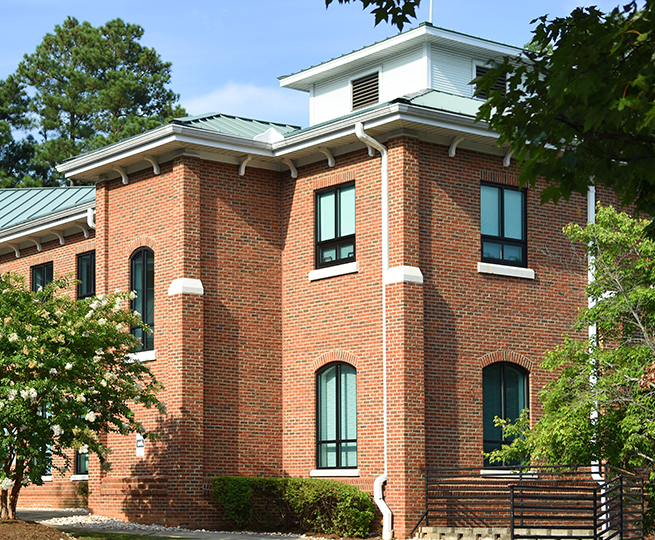
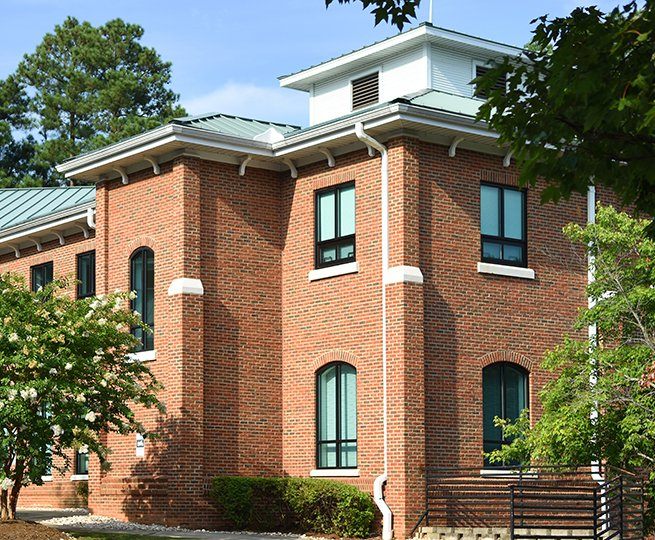
Image Optimization

diff --git a/public/index.html b/public/index.html
@@ -114,7 +114,11 @@
 	<div class="container">
 		<div class="row align-items-center flex-md-row-reverse">
 			<div class="col-md-6">
-				<img src="/i/home-banner-1.png" alt="Helping Patients at Carrboro Family Medicine Center" class="w-100" data-aos="fade-down" data-aos-delay="0">			
+				<picture>
+				  <source srcset="/i/home-banner-1.webp" type="image/webp">
+				  <source srcset="/i/home-banner-1.png" type="image/png"> 
+				  <img src="/i/home-banner-1.png" alt="Helping Patients at Carrboro Family Medicine Center" class="w-100" data-aos="fade-down" data-aos-delay="0">
+				</picture>
 			</div>
 			<div class="col-md-6 mt-8 mt-md-0">
 				<h1 class="display-3 mb-6 text-light-1" data-aos="fade-down" data-aos-delay="150">We are Here for You.</h1>
@@ -150,22 +154,38 @@
 		</div>
 		<div class="row justify-content-center">
 			<div class="mb-15 mb-md-0 col-xxl-3 col-md-3 col-sm-6" data-aos="fade-down" data-aos-delay="0">
-				<img src="/i/mainpage2.jpeg" alt="Comprehensive Primary Care Services" class="img-fluid mb-6">
+				<picture>
+				  <source srcset="/i/mainpage2.webp" type="image/webp">
+				  <source srcset="/i/mainpage2.jpeg" type="image/jpeg"> 
+				  <img src="/i/mainpage2.jpeg" alt="Comprehensive Primary Care Services" class="img-fluid mb-6">
+				</picture>
 				<h5 class="mb-4">Comprehensive Primary Care Services</h5>
 				<p class="mb-0">Our family medicine practice provides care for infants, children and adolescents, adults and senior citizens</p>
 			</div>
-			<div class="mb-15 mb-md-0 col-sm-8 col-xxl-3 col-md-3" data-aos="fade-down" data-aos-delay="250">
-				<img src="/i/dr-manor.jpeg" alt="Board Certified, Well-Trained Physicians" class="img-fluid mb-6">
+			<div class="mb-15 mb-md-0 col-sm-6 col-xxl-3 col-md-3" data-aos="fade-down" data-aos-delay="250">
+				<picture>
+				  <source srcset="/i/dr-manor.webp" type="image/webp">
+				  <source srcset="/i/dr-manor.jpeg" type="image/jpeg"> 
+				  <img src="/i/dr-manor.jpeg" alt="Board Certified, Well-Trained Physicians" class="img-fluid mb-6">
+				</picture>
 				<h5 class="mb-4">Board Certified, Well-Trained Physicians</h5>
 				<p class="mb-0">We are growing to provide greater access to care and welcome new patients to our practice.</p>
 			</div>
-			<div class="col-sm-8 col-xxl-3 col-md-3" data-aos="fade-down" data-aos-delay="500">
-				<img src="/i/main2.jpeg" alt="Same Day Appointments" class="img-fluid mb-6">
+			<div class="col-sm-6 col-xxl-3 col-md-3" data-aos="fade-down" data-aos-delay="500">
+				<picture>
+				  <source srcset="/i/main2.webp" type="image/webp">
+				  <source srcset="/i/main2.jpeg" type="image/jpeg"> 
+				  <img src="/i/main2.jpeg" alt="Same Day Appointments" class="img-fluid mb-6">
+				</picture>
 				<h5 class="mb-4">Same Day Appointments</h5>
 				<p class="mb-0">If you would like a same-day appointment, please call us at 919-929-1747 (Press option 1 or option 2) before 4 pm.</p>
 			</div>
-			<div class="col-sm-8 col-xxl-3 col-md-3" data-aos="fade-down" data-aos-delay="500">
-				<img src="/i/willowcreek-655x540.jpeg" alt="On-Site Lab" class="img-fluid mb-6">
+			<div class="col-sm-6 col-xxl-3 col-md-3" data-aos="fade-down" data-aos-delay="500">
+				<picture>
+				  <source srcset="/i/willowcreek-655x540.webp" type="image/webp">
+				  <source srcset="/i/willowcreek-655x540.jpeg" type="image/jpeg"> 
+				  <img src="/i/willowcreek-655x540.jpeg" alt="On-Site Lab" class="img-fluid mb-6">
+				</picture>
 				<h5 class="mb-4">On-Site Lab</h5>
 				<p class="mb-0">Carrboro Family Medicine Center is a well-established, independent practice with a lab, and other diagnostic amenities.</p>
 			</div>
@@ -257,12 +277,8 @@
 	<div class="container">
 		<div class="row align-items-md-center justify-content-between">
 			<div class="mb-8 mb-md-0 col-md-7 col-lg-6 col-xl-5 col-xxl-4">
-				<h2 class="display-5 mb-6 text-center text-md-start" data-aos="fade-down" data-aos-delay="250">
-						Our Facilities
-				</h2>
-				<p class="fs-2 text-center text-md-start mb-0" data-aos="fade-down" data-aos-delay="500">
-						Since we opened our doors in 1982, we have treated our patients with the same values we would wish for members of our own families:  Compassion.  Respect.  Integrity.  Trust.  Lifelong Learning.  Teamwork.
-				</p>
+				<h2 class="display-5 mb-6 text-center text-md-start" data-aos="fade-down" data-aos-delay="250">Our Facilities</h2>
+				<p class="fs-2 text-center text-md-start mb-0" data-aos="fade-down" data-aos-delay="500">Since we opened our doors in 1982, we have treated our patients with the same values we would wish for members of our own families: Compassion. Respect. Integrity. Trust. Lifelong Learning. Teamwork.</p>
 			</div>
 			<div class="col-md-5 col-xl-6">
 				<video style="width:100%; border:1px solid #ededed; aspect-ratio: 16 / 9;" poster="/i/Video-Logo.jpeg" controls="controls" width="100%"><source src="/i/intro-video.mp4" type="video/mp4"></video>
@@ -390,7 +406,7 @@
 	</div>
 </section>
 
-<section class="bg-bg-2 pt-md-16">
+<section class="bg-bg-2 pt-16">
 	<div class="container">
 		<div class="row justify-content-center text-center text-md-start">
 			<div class="mb-10 mb-md-15 mb-lg-20 col-sm-8 col-md-6 col-lg-4 d-flex flex-column" data-aos="fade-down" data-aos-delay="0">

diff --git a/public/about-us/index.html b/public/about-us/index.html
@@ -119,7 +119,11 @@
 				<p class="mb-8 fs-1 text-light-2" data-aos="fade-down" data-aos-delay="250">Carrboro Family Medicine Center is a well-established, independent practice with a lab, and other diagnostic amenities.  We are committed to serving our patients and being a positive change in healthcare by delivering timely, high quality, cost-effective medical services while also providing a great experience for our patients.</p>
 			</div>
 			<div class="col-md-6">
-				<img src="/i/about-us-banner.png" alt="Helping Patients at Carrboro Family Medicine Center" class="w-100" data-aos="fade-down" data-aos-delay="0">			
+				<picture>
+				  <source srcset="/i/about-us-banner.webp" type="image/webp">
+				  <source srcset="/i/about-us-banner.png" type="image/png"> 
+				  <img src="/i/about-us-banner.png" alt="Helping Patients at Carrboro Family Medicine Center" class="w-100" data-aos="fade-down" data-aos-delay="0">
+				</picture>
 			</div>
 		</div>
 	</div>
